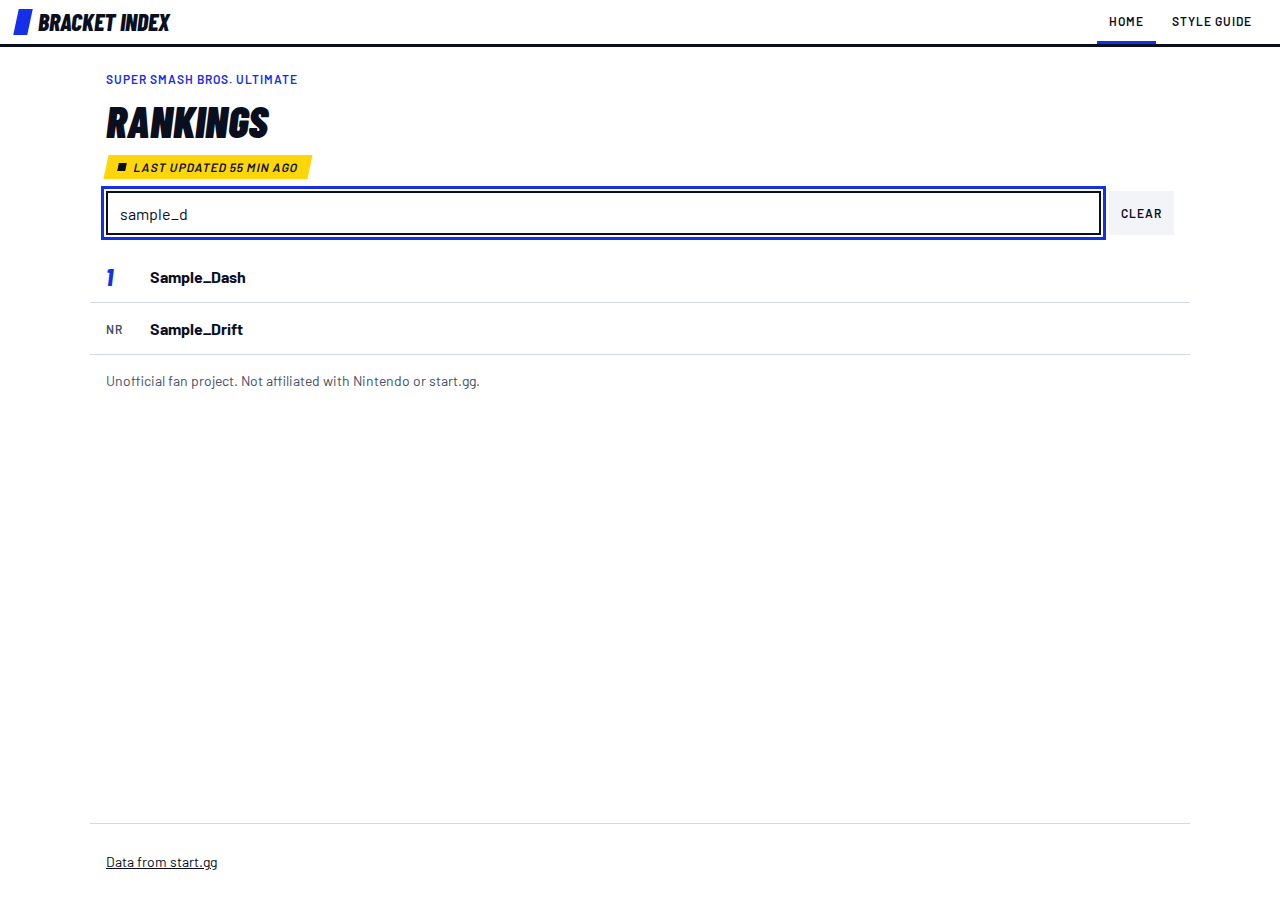
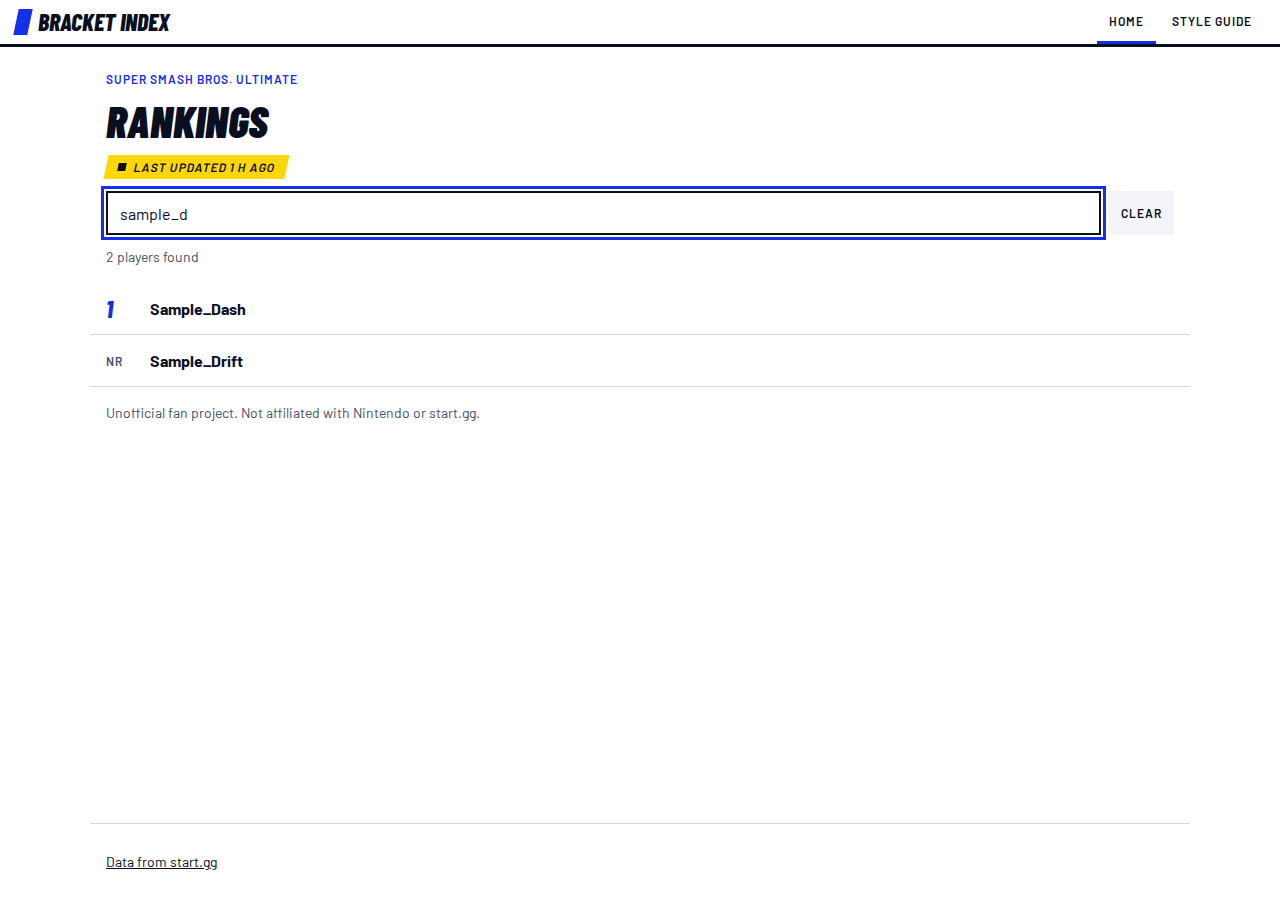
fix(app): search accessibility, input limits, no flicker; preview setup docs
Adds a polite live region for search status, returns focus to the search
box after Clear, caps and sanitizes queries, avoids retrying 4xx errors,
keeps previous results while searching, and refreshes "Last updated".

Claude-Session: https://claude.ai/code/session_01EmiPNYLaxRfYJT2qzBUjng

Changed region(s): [[0.0625, 0.28, 0.375, 0.4667], [0.1875, 0.1556, 0.25, 0.2178]]

diff --git a/apps/app/src/app/index.tsx b/apps/app/src/app/index.tsx
@@ -7,21 +7,40 @@ import { LastUpdated } from "../components/LastUpdated";
 import { Page } from "../components/Page";
 import { PlayerList } from "../components/PlayerList";
 import { SearchBox } from "../components/SearchBox";
-import { useLeaderboard, useSearch } from "../lib/api";
+import { ApiError, useLeaderboard, useSearch } from "../lib/api";
 import { useDebouncedValue } from "../lib/useDebouncedValue";
 
 const TITLE = "Smash Ultimate Rankings | Bracket Index";
 const DESCRIPTION =
   "Live Super Smash Bros. Ultimate player rankings computed from start.gg results. Unofficial fan project.";
 
+/** Control characters (from pasted text) are dropped; the rest is trimmed and lower-cased. */
+// eslint-disable-next-line no-control-regex -- stripping control characters is the point
+const CONTROL_CHARACTERS = /[\u0000-\u001f\u007f-\u009f]/g;
+const normalizeQuery = (raw: string) => raw.replace(CONTROL_CHARACTERS, "").trim().toLowerCase();
+
 export default function Leaderboard() {
   const [text, setText] = useState("");
-  const query = useDebouncedValue(text.trim().toLowerCase(), 250);
-  const searching = query.length >= SEARCH_MIN_QUERY_LENGTH;
+  const normalized = normalizeQuery(text);
+  const query = useDebouncedValue(normalized, 250);
   const leaderboard = useLeaderboard();
   const search = useSearch(query);
   // While the debounce catches up with typing, keep showing the search view, not the leaderboard.
-  const typedEnough = text.trim().length >= SEARCH_MIN_QUERY_LENGTH;
+  const typedEnough = normalized.length >= SEARCH_MIN_QUERY_LENGTH;
+  const searchStatus = search.isError ? "error" : search.data ? "success" : "pending";
+  const settled = searchStatus === "success" && !search.isPlaceholderData && query === normalized;
+  const count = search.data?.results.length ?? 0;
+  const liveMessage = !text.trim()
+    ? ""
+    : !typedEnough
+      ? `Type at least ${SEARCH_MIN_QUERY_LENGTH} letters to search.`
+      : searchStatus === "error"
+        ? "Search failed."
+        : !settled
+          ? "Searching…"
+          : count === 0
+            ? "No players match that search."
+            : `${count} ${count === 1 ? "player" : "players"} found`;
 
   return (
     <Page>
@@ -38,17 +57,20 @@ export default function Leaderboard() {
         <DisplayText variant="h1">Rankings</DisplayText>
         <LastUpdated />
         <SearchBox value={text} onChange={setText} />
-        {text.trim().length === 1 ? (
+        <View role="status" aria-live="polite" testID="search-status" style={styles.live}>
           <BodyText variant="bodySm" muted>
-            Type at least {SEARCH_MIN_QUERY_LENGTH} letters to search.
+            {liveMessage}
           </BodyText>
-        ) : null}
+        </View>
       </View>
       {typedEnough ? (
         <PlayerList
           label={`search results for ${query}`}
-          status={
-            searching && !search.isPending ? (search.isError ? "error" : "success") : "pending"
+          status={searchStatus}
+          errorText={
+            search.error instanceof ApiError && search.error.status < 500
+              ? "That search was not accepted. Try different letters."
+              : undefined
           }
           rows={(search.data?.results ?? []).map((player) => ({
             playerId: player.playerId,
@@ -85,6 +107,7 @@ export default function Leaderboard() {
 }
 
 const styles = StyleSheet.create({
+  live: { minHeight: 20 },
   note: { paddingHorizontal: spacing.lg, paddingTop: spacing.lg },
   top: { paddingHorizontal: spacing.lg, paddingBottom: spacing.lg, gap: spacing.md },
 });

diff --git a/e2e/tests/leaderboard.spec.ts b/e2e/tests/leaderboard.spec.ts
@@ -17,6 +17,8 @@ async function expectNoSeriousViolations(page: Page) {
   );
 }
 
+const escapeRegExp = (text: string) => text.replace(/[.*+?^${}()|[\]\\]/g, "\\$&");
+
 const board = (page: Page) => page.getByRole("list", { name: /top 100 leaderboard/ });
 
 test("shows the seeded ranked players in rank order, each linking to a player page", async ({
@@ -34,7 +36,7 @@ test("shows the seeded ranked players in rank order, each linking to a player pa
     const link = links.nth(index);
     await expect(link).toHaveAttribute(
       "aria-label",
-      new RegExp(`^Rank ${entry.rank}, ${entry.gamerTag},`),
+      new RegExp(`^Rank ${entry.rank}, (?:.* )?${escapeRegExp(entry.gamerTag)},`),
     );
     await expect(link).toHaveAttribute("href", new RegExp(`^/player/${entry.playerId}-sample-`));
   }
@@ -55,6 +57,7 @@ test("search finds a player, replaces the leaderboard, and Escape clears it", as
   await box.fill("sample_d");
   const results = page.getByRole("list", { name: /search results/ });
   await expect(results.getByRole("link", { name: /Sample_Dash/ })).toBeVisible();
+  await expect(page.getByTestId("search-status")).toHaveText(/^\d+ players? found$/);
   await expect(results.getByRole("link", { name: /Sample_Dash/ })).toHaveAttribute(
     "href",
     /^\/player\/\d+-sample-dash$/,
@@ -69,7 +72,21 @@ test("search finds a player, replaces the leaderboard, and Escape clears it", as
 test("search shows an empty message when nothing matches", async ({ page }) => {
   await page.goto("/");
   await page.getByRole("searchbox", { name: "Search players" }).fill("zzzzqq");
-  await expect(page.getByText("No players match that search.")).toBeVisible();
+  await expect(page.getByTestId("search-status")).toHaveText("No players match that search.");
+  await expect(page.getByText("No players match that search.")).toHaveCount(2);
+});
+
+test("announces the 2-letter hint, and Clear returns focus to the search box", async ({ page }) => {
+  await page.goto("/");
+  const box = page.getByRole("searchbox", { name: "Search players" });
+  await box.fill("s");
+  await expect(page.getByTestId("search-status")).toHaveText(/at least 2 letters/);
+  await expect(page.getByTestId("search-status")).toHaveAttribute("aria-live", "polite");
+  await box.fill("sample");
+  await page.getByRole("button", { name: "Clear search" }).focus();
+  await page.keyboard.press("Enter");
+  await expect(box).toHaveValue("");
+  await expect(box).toBeFocused();
 });
 
 test("shows grey skeleton rows while loading", async ({ page }) => {

diff --git a/apps/app/src/lib/api.ts b/apps/app/src/lib/api.ts
@@ -1,9 +1,10 @@
-import { useQuery } from "@tanstack/react-query";
+import { keepPreviousData, useQuery } from "@tanstack/react-query";
 import { createApiClient } from "@sr/api/client";
 import {
   leaderboardResponseSchema,
   metaResponseSchema,
   searchResponseSchema,
+  SEARCH_MAX_QUERY_LENGTH,
   SEARCH_MIN_QUERY_LENGTH,
 } from "@sr/core";
 import { z } from "zod";
@@ -27,16 +28,29 @@ export function getApiUrl(): string {
 let client: ReturnType<typeof createApiClient> | undefined;
 const api = () => (client ??= createApiClient(getApiUrl()));
 
+/** A non-2xx answer from the API. 4xx means the request itself was rejected, so retrying is pointless. */
+export class ApiError extends Error {
+  constructor(readonly status: number) {
+    super(`API responded with ${status}`);
+    this.name = "ApiError";
+  }
+}
+
 async function readJson(response: {
   ok: boolean;
   status: number;
   json(): Promise<unknown>;
 }): Promise<unknown> {
-  if (!response.ok) throw new Error(`API responded with ${response.status}`);
+  if (!response.ok) throw new ApiError(response.status);
   return response.json();
 }
 
-const queryDefaults = { staleTime: STALE_TIME_MS, retry: 1, retryDelay: 400 } as const;
+const queryDefaults = {
+  staleTime: STALE_TIME_MS,
+  retry: (failures: number, error: Error) =>
+    failures < 1 && !(error instanceof ApiError && error.status < 500),
+  retryDelay: 400,
+} as const;
 
 export const useLeaderboard = () =>
   useQuery({
@@ -52,6 +66,7 @@ export const useMeta = () =>
   useQuery({
     ...queryDefaults,
     queryKey: ["meta"],
+    refetchInterval: 60_000,
     queryFn: async () => metaResponseSchema.parse(await readJson(await api().v1.meta.$get())),
   });
 
@@ -60,7 +75,9 @@ export const useSearch = (query: string) =>
   useQuery({
     ...queryDefaults,
     queryKey: ["search", query],
-    enabled: query.length >= SEARCH_MIN_QUERY_LENGTH,
+    enabled: query.length >= SEARCH_MIN_QUERY_LENGTH && query.length <= SEARCH_MAX_QUERY_LENGTH,
+    // Keep the old results on screen while the next search loads (no skeleton flicker).
+    placeholderData: keepPreviousData,
     queryFn: async () =>
       searchResponseSchema.parse(
         await readJson(await api().v1.search.$get({ query: { q: query } })),

diff --git a/apps/app/src/components/SearchBox.tsx b/apps/app/src/components/SearchBox.tsx
@@ -1,4 +1,6 @@
+import { useRef } from "react";
 import { Pressable, StyleSheet, TextInput, View } from "react-native";
+import { SEARCH_MAX_QUERY_LENGTH } from "@sr/core";
 import {
   BodyText,
   colors,
@@ -18,9 +20,12 @@ export function SearchBox({
 }) {
   const input = useFocusRing();
   const clear = useFocusRing();
+  const inputRef = useRef<TextInput>(null);
   return (
     <View style={styles.wrap}>
       <TextInput
+        ref={inputRef}
+        maxLength={SEARCH_MAX_QUERY_LENGTH}
         aria-label="Search players"
         role="searchbox"
         placeholder="Search players"
@@ -40,7 +45,10 @@ export function SearchBox({
         <Pressable
           role="button"
           aria-label="Clear search"
-          onPress={() => onChange("")}
+          onPress={() => {
+            onChange("");
+            inputRef.current?.focus();
+          }}
           {...clear.handlers}
           style={[styles.clear, clear.style]}
         >

diff --git a/apps/app/src/components/PlayerList.tsx b/apps/app/src/components/PlayerList.tsx
@@ -17,6 +17,8 @@ export interface PlayerListProps {
   rows: readonly PlayerRowProps[];
   emptyText: string;
   onRetry: () => void;
+  /** Overrides the default "check your connection" message. */
+  errorText?: string;
   /** Show the Rk / Player / Score column heads (leaderboard only). */
   showHeader?: boolean;
 }
@@ -29,6 +31,7 @@ export function PlayerList({
   emptyText,
   onRetry,
   showHeader,
+  errorText,
 }: PlayerListProps) {
   const ring = useFocusRing();
   const reduced = useReducedMotion();
@@ -60,7 +63,7 @@ export function PlayerList({
     return (
       <View role="alert" style={styles.message}>
         <BodyText variant="bodySm">
-          We could not load {label}. Check your connection and try again.
+          {errorText ?? `We could not load ${label}. Check your connection and try again.`}
         </BodyText>
         <Pressable
           role="button"

diff --git a/apps/app/src/components/LastUpdated.tsx b/apps/app/src/components/LastUpdated.tsx
@@ -1,3 +1,4 @@
+import { useEffect, useState } from "react";
 import { StyleSheet, View } from "react-native";
 import { BodyText, colors, spacing } from "@sr/ui";
 import { useMeta } from "../lib/api";
@@ -6,6 +7,12 @@ import { relativeTime } from "../lib/format";
 /** "Last updated 12 min ago" from /v1/meta; the exact time is in the accessible label. */
 export function LastUpdated() {
   const { data } = useMeta();
+  const [, tick] = useState(0);
+  // Re-render once a minute so "5 min ago" does not go stale.
+  useEffect(() => {
+    const timer = setInterval(() => tick((n) => n + 1), 60_000);
+    return () => clearInterval(timer);
+  }, []);
   if (!data?.lastRatedAt) return null;
   const exact = new Date(data.lastRatedAt).toLocaleString();
   return (

diff --git a/apps/app/src/components/PlayerRow.tsx b/apps/app/src/components/PlayerRow.tsx
@@ -145,7 +145,9 @@ export function PlayerRowHeader() {
 export function SkeletonRow() {
   return (
     <View aria-hidden testID="skeleton-row" style={styles.row}>
-      <View style={[styles.bar, { width: 24 }]} />
+      <View style={{ width: COLS.rank }}>
+        <View style={[styles.bar, { width: 24 }]} />
+      </View>
       <View style={[styles.tagCol, { gap: spacing.xs }]}>
         <View style={[styles.bar, { width: "55%" }]} />
         <View style={[styles.bar, { width: 28, height: 8 }]} />

diff --git a/apps/api/src/config.ts b/apps/api/src/config.ts
@@ -2,7 +2,7 @@ import { loadEnv } from "@sr/core";
 import { z } from "zod";
 
 /** Expo's web dev servers (`pnpm dev`), allowed only outside production. */
-const DEV_ORIGINS = ["http://localhost:8081", "http://localhost:8082"];
+const DEV_ORIGINS = ["http://localhost:8081", "http://localhost:8082", "http://localhost:4173"];
 
 /** Comma-separated origins, each normalized to scheme://host[:port]. */
 const allowedOriginsSchema = z

diff --git a/apps/api/src/config.test.ts b/apps/api/src/config.test.ts
@@ -31,6 +31,7 @@ describe("loadApiConfig", () => {
     expect(loadApiConfig(base).allowedOrigins).toEqual([
       "http://localhost:8081",
       "http://localhost:8082",
+      "http://localhost:4173",
     ]);
   });
 

diff --git a/STATUS.md b/STATUS.md
@@ -348,6 +348,6 @@ Automatic browser tests now run against a real temporary database filled with th
 
 **What's next:** Player page, then the methodology and status pages, then Sentry error alerts.
 
-**Questions for Clay:** Look at the phone screenshot in the PR. Does it look like the leaderboard you pictured? Any feedback becomes a follow-up PR.
+**Questions for Clay:** Look at the phone screenshot in the PR. Does it look like the leaderboard you pictured? Any feedback becomes a follow-up PR. Before the Vercel preview can show real data, one setup step in Vercel: on the **app** project, add a setting named `EXPO_PUBLIC_API_URL` set to the API's public address (not a secret). On the **API** project, add `ALLOWED_ORIGINS` (the app's address) and, for preview links, `ALLOWED_ORIGIN_PATTERN`, so the API lets the app's pages talk to it.
 
 **Questions for Genghis:** This PR is about 675 hand-written lines (two row/list components are most of it), over the ~400 target. OK, or split?
